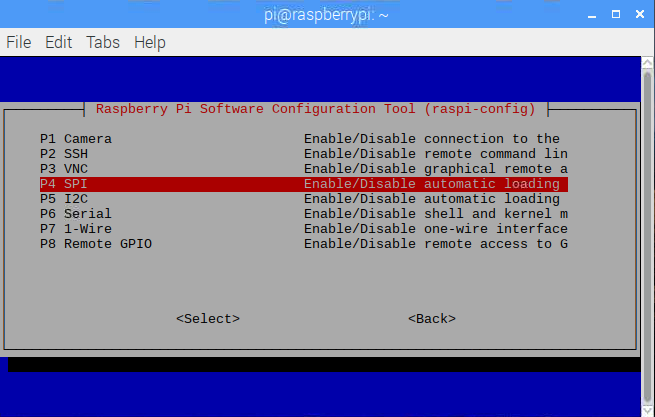
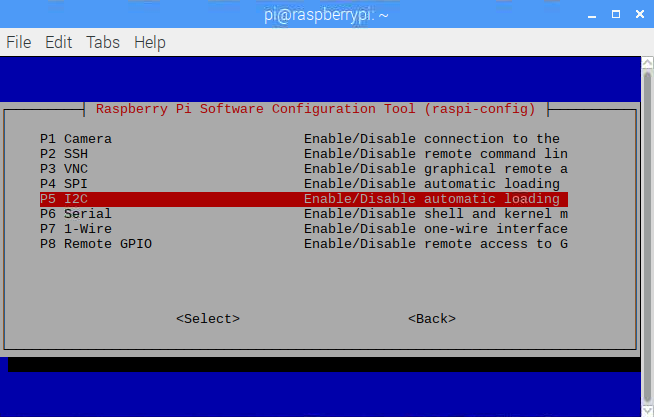
centered figures

diff --git a/LSE05/README.md b/LSE05/README.md
@@ -26,11 +26,15 @@ $ sudo raspi-config
 ```
    * Go to *Interfacing Options* 
 
-![Interfacing options screen](img/fig01.png)
+<p align="center">
+  <img src="img/fig01.png">
+</p>
 
    * and enable **P5 I2C**
 
-![I2C enabling screen](img/fig02.png)
+<p align="center">
+  <img src="img/fig02.png">
+</p>
 
 2. Then, restart the RPi:
 ```
@@ -60,7 +64,9 @@ $ sudo make install
 ### Part I. Hardware and Fire Test
 1. The hardware setup, including the Raspberry Pi 3 + the Tiny RTC I<sup>2</sup>C modules DS1307 is shown below (TC74 temperature sensor not shown):
 
-![Hardware setup](img/fig04.png)
+<p align="center">
+  <img src="img/fig04.png">
+</p>
 
 2. In your project, the Raspberry Pi must be able to communicate with both devices through the I<sup>2</sup>C protocol. Install the Python tools that allow I<sup>2</sup>C communications between the Raspberry Pi and hooked devices, as well as diagnostic tools:
 ```
@@ -78,7 +84,9 @@ $ sudo i2cdetect -y 1
 ```
 If everything goes well, you must see similar to the next figure:
 
-![1i2 detect screen](img/fig03.png)
+<p align="center">
+  <img src="img/fig03.png">
+</p>
 
 Three device' addresses have to be seen in the address map: RPi -> 0x50, TC74 -> 0x4D, and DS1338 -> 0x68. 
 
@@ -88,7 +96,9 @@ i2cdump -y 1 0x68
 ```
 Figure below shows the register content for the DS1338 right after been powered on: 
 
-![1i2 detect screen](img/fig05.png)
+<p align="center">
+  <img src="img/fig05.png">
+</p>
 
 As you write data to the devices' registers. you should be able to track the changes from he register map.
 
